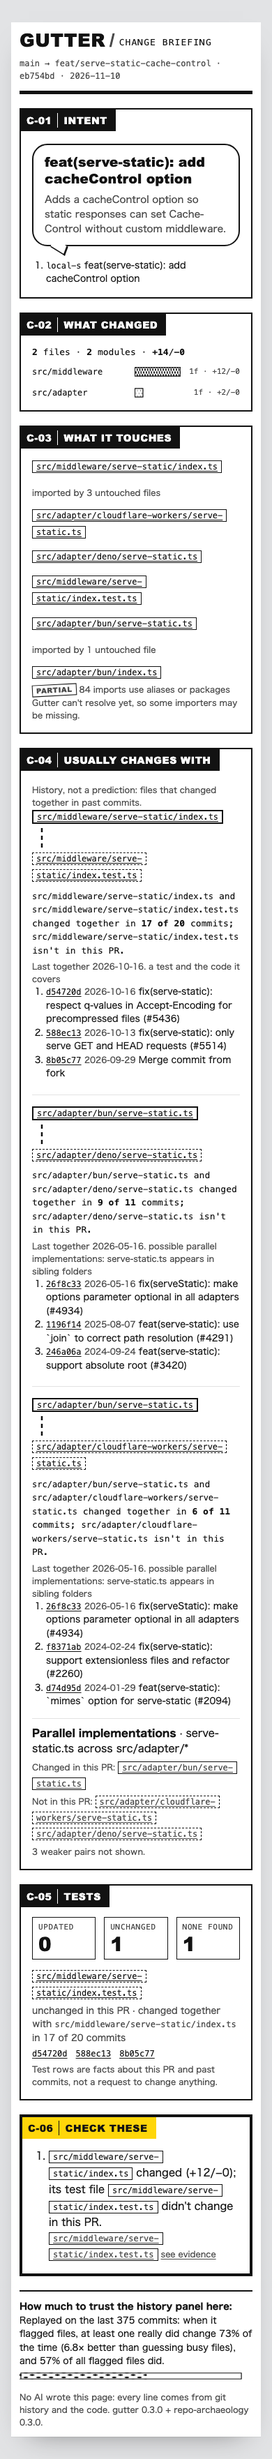
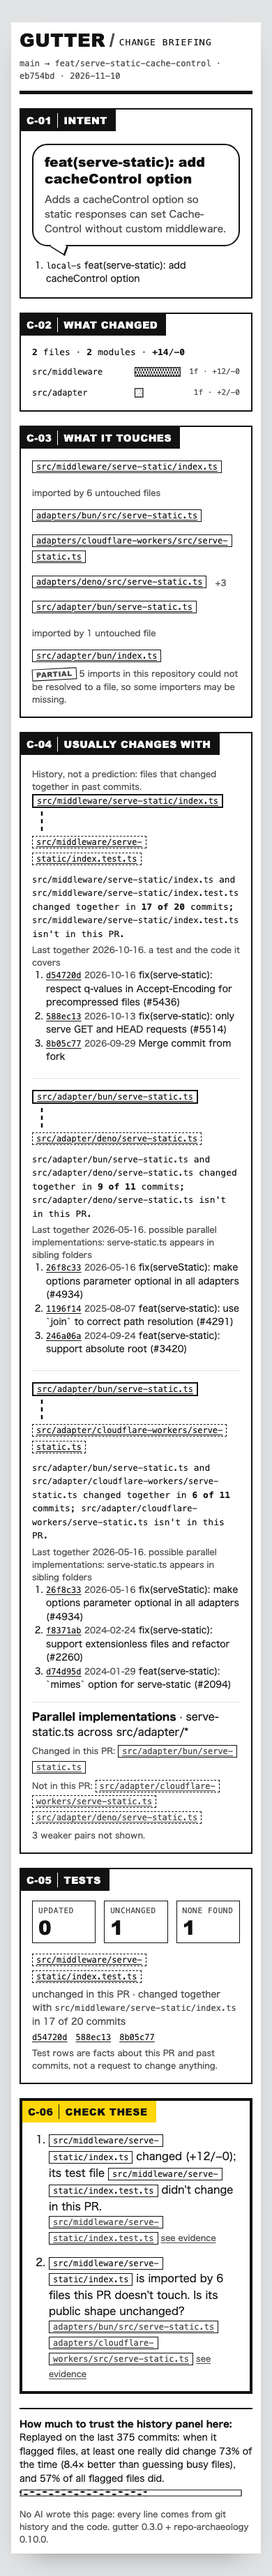
docs: DECISIONS #18, README/CHANGELOG/bench and example docs for the library session; regenerate the hono example

Changed region(s): [[0.0615, 0.0, 0.9231, 0.9986], [0.8923, 0.8113, 0.9231, 0.8738], [0.8615, 0.156, 0.8923, 0.1872]]

diff --git a/docs/example/gutter.html b/docs/example/gutter.html
@@ -172,10 +172,10 @@ a:focus-visible,.panel:focus-visible{outline:var(--f-stroke) solid var(--f-marke
 <section class="panel area-touches" data-cut="C-03" aria-labelledby="p3">
   <h2 id="p3" class="cap"><span class="num">C-03</span> What it touches</h2>
   <ul class="deps"><li id="deps:src/middleware/serve-static/index.ts"><a href="https://github.com/honojs/hono/blob/eb754bd5ef22c63f1634a4c374a86be086f85710/src/middleware/serve-static/index.ts"><code class="path">src/middleware/serve-static/index.ts</code></a>
-        <span class="small">imported by 3 untouched files</span>
-        <span class="importers"><a href="https://github.com/honojs/hono/blob/eb754bd5ef22c63f1634a4c374a86be086f85710/src/adapter/cloudflare-workers/serve-static.ts"><code class="path">src/adapter/cloudflare-workers/serve-static.ts</code></a> <a href="https://github.com/honojs/hono/blob/eb754bd5ef22c63f1634a4c374a86be086f85710/src/adapter/deno/serve-static.ts"><code class="path">src/adapter/deno/serve-static.ts</code></a> <a href="https://github.com/honojs/hono/blob/eb754bd5ef22c63f1634a4c374a86be086f85710/src/middleware/serve-static/index.test.ts"><code class="path">src/middleware/serve-static/index.test.ts</code></a></span></li><li id="deps:src/adapter/bun/serve-static.ts"><a href="https://github.com/honojs/hono/blob/eb754bd5ef22c63f1634a4c374a86be086f85710/src/adapter/bun/serve-static.ts"><code class="path">src/adapter/bun/serve-static.ts</code></a>
+        <span class="small">imported by 6 untouched files</span>
+        <span class="importers"><a href="https://github.com/honojs/hono/blob/eb754bd5ef22c63f1634a4c374a86be086f85710/adapters/bun/src/serve-static.ts"><code class="path">adapters/bun/src/serve-static.ts</code></a> <a href="https://github.com/honojs/hono/blob/eb754bd5ef22c63f1634a4c374a86be086f85710/adapters/cloudflare-workers/src/serve-static.ts"><code class="path">adapters/cloudflare-workers/src/serve-static.ts</code></a> <a href="https://github.com/honojs/hono/blob/eb754bd5ef22c63f1634a4c374a86be086f85710/adapters/deno/src/serve-static.ts"><code class="path">adapters/deno/src/serve-static.ts</code></a> <span class="small">+3</span></span></li><li id="deps:src/adapter/bun/serve-static.ts"><a href="https://github.com/honojs/hono/blob/eb754bd5ef22c63f1634a4c374a86be086f85710/src/adapter/bun/serve-static.ts"><code class="path">src/adapter/bun/serve-static.ts</code></a>
         <span class="small">imported by 1 untouched file</span>
-        <span class="importers"><a href="https://github.com/honojs/hono/blob/eb754bd5ef22c63f1634a4c374a86be086f85710/src/adapter/bun/index.ts"><code class="path">src/adapter/bun/index.ts</code></a></span></li></ul><p class="small"><span class="stamp">partial</span> 84 imports use aliases or packages Gutter can&#39;t resolve yet, so some importers may be missing.</p>
+        <span class="importers"><a href="https://github.com/honojs/hono/blob/eb754bd5ef22c63f1634a4c374a86be086f85710/src/adapter/bun/index.ts"><code class="path">src/adapter/bun/index.ts</code></a></span></li></ul><p class="small"><span class="stamp">partial</span> 5 imports in this repository could not be resolved to a file, so some importers may be missing.</p>
 </section>
 <section class="panel area-history" data-cut="C-04" aria-labelledby="p4">
   <h2 id="p4" class="cap"><span class="num">C-04</span> Usually changes with</h2>
@@ -222,12 +222,12 @@ a:focus-visible,.panel:focus-visible{outline:var(--f-stroke) solid var(--f-marke
 </section>
 <section class="panel area-checks hero" data-cut="C-06" aria-labelledby="p6">
   <h2 id="p6" class="cap marker"><span class="num">C-06</span> Check these</h2>
-  <ol class="checks"><li><p><code class="path">src/middleware/serve-static/index.ts</code> changed (+12/−0); its test file <code class="path">src/middleware/serve-static/index.test.ts</code> didn&#39;t change in this PR.</p><p class="small"><a href="https://github.com/honojs/hono/blob/eb754bd5ef22c63f1634a4c374a86be086f85710/src/middleware/serve-static/index.test.ts"><code class="path">src/middleware/serve-static/index.test.ts</code></a> <a class="jump" href="#tests:src/middleware/serve-static/index.ts">see evidence</a></p></li></ol>
+  <ol class="checks"><li><p><code class="path">src/middleware/serve-static/index.ts</code> changed (+12/−0); its test file <code class="path">src/middleware/serve-static/index.test.ts</code> didn&#39;t change in this PR.</p><p class="small"><a href="https://github.com/honojs/hono/blob/eb754bd5ef22c63f1634a4c374a86be086f85710/src/middleware/serve-static/index.test.ts"><code class="path">src/middleware/serve-static/index.test.ts</code></a> <a class="jump" href="#tests:src/middleware/serve-static/index.ts">see evidence</a></p></li><li><p><code class="path">src/middleware/serve-static/index.ts</code> is imported by 6 files this PR doesn&#39;t touch. Is its public shape unchanged?</p><p class="small"><a href="https://github.com/honojs/hono/blob/eb754bd5ef22c63f1634a4c374a86be086f85710/adapters/bun/src/serve-static.ts"><code class="path">adapters/bun/src/serve-static.ts</code></a> <a href="https://github.com/honojs/hono/blob/eb754bd5ef22c63f1634a4c374a86be086f85710/adapters/cloudflare-workers/src/serve-static.ts"><code class="path">adapters/cloudflare-workers/src/serve-static.ts</code></a> <a class="jump" href="#deps:src/middleware/serve-static/index.ts">see evidence</a></p></li></ol>
 </section>
   </div>
   <footer class="colophon">
-    <div class="cal"><p><b>How much to trust the history panel here:</b> Replayed on the last 375 commits: when it flagged files, at least one really did change 73% of the time (6.8× better than guessing busy files), and 57% of all flagged files did.</p><svg class="gauge" viewBox="0 0 100 8" preserveAspectRatio="none" role="img" aria-label="Measured precision 57%"><rect x="0" y="0" width="57" height="8" fill="url(#tone-2)"/><rect x="0.6" y="0.6" width="98.8" height="6.8" class="bar-ink"/></svg></div>
-    <p class="small">No AI wrote this page: every line comes from git history and the code. gutter 0.3.0 + repo-archaeology 0.3.0.</p>
+    <div class="cal"><p><b>How much to trust the history panel here:</b> Replayed on the last 375 commits: when it flagged files, at least one really did change 73% of the time (8.4× better than guessing busy files), and 57% of all flagged files did.</p><svg class="gauge" viewBox="0 0 100 8" preserveAspectRatio="none" role="img" aria-label="Measured precision 57%"><rect x="0" y="0" width="57" height="8" fill="url(#tone-2)"/><rect x="0.6" y="0.6" width="98.8" height="6.8" class="bar-ink"/></svg></div>
+    <p class="small">No AI wrote this page: every line comes from git history and the code. gutter 0.3.0 + repo-archaeology 0.10.0.</p>
   </footer>
 </article>
 </main>

diff --git a/README.md b/README.md
@@ -34,7 +34,7 @@ jobs:
 
 ### See what the diff doesn't tell you
 
-Gutter combines `git diff` structure, static import analysis, test-file conventions, and [Repo Archaeology](https://github.com/lbrodie11/repo-archaeology) co-change history into a compact, evidence-backed briefing for human reviewers.
+Gutter combines `git diff` structure, test-file conventions, and [Repo Archaeology](https://github.com/lbrodie11/repo-archaeology)'s import graph and co-change history into a compact, evidence-backed briefing for human reviewers.
 
 **Gutter doesn't replace your judgment.** It never writes AI verdicts, suggests code rewrites, guesses at omissions, or blocks a merge. Instead, it gives you verifiable repository evidence — with clickable commit receipts and a per-repo backtest of how reliable the history is — so you can decide where to spend your attention.
 
@@ -52,7 +52,7 @@ Gutter combines `git diff` structure, static import analysis, test-file conventi
 
 ## Example: a Hono change, briefed
 
-> **About this example:** Below is an illustrative branch on [honojs/hono](https://github.com/honojs/hono) (based on commit [`eb754bd`](https://github.com/honojs/hono/commit/eb754bd5ef22c63f1634a4c374a86be086f85710)) analyzed against Hono's real commit history (`1,868` commits). The proposed `cacheControl` edit is a local simulation, not an existing Hono pull request; all co-change counts and supporting commit receipts are genuine.
+> **About this example:** Below is an illustrative branch on [honojs/hono](https://github.com/honojs/hono) (based on commit [`eb754bd`](https://github.com/honojs/hono/commit/eb754bd5ef22c63f1634a4c374a86be086f85710)) analyzed against Hono's real commit history (`1,861` commits, repo-archaeology 0.10.0). The proposed `cacheControl` edit is a local simulation, not an existing Hono pull request; all co-change counts and supporting commit receipts are genuine.
 >
 > **Reproduce locally:**
 > ```bash
@@ -71,6 +71,7 @@ Suppose a pull request adds a `cacheControl` option to Hono's shared static-file
 | Where | What Gutter says | Evidence |
 |---|---|---|
 | **Check these** | `src/middleware/serve-static/index.ts` changed (+12/−0); its test file `src/middleware/serve-static/index.test.ts` didn't change in this PR. | `git diff`, test-file naming |
+| **Check these** | `src/middleware/serve-static/index.ts` is imported by 6 files this PR doesn't touch. Is its public shape unchanged? | Repo Archaeology's import graph: 3 relative importers in `src/`, plus the 3 `adapters/*/src/serve-static.ts` files that import it through the package's `exports` |
 | **Tests** | [`src/middleware/serve-static/index.test.ts`](https://github.com/honojs/hono/blob/eb754bd5ef22c63f1634a4c374a86be086f85710/src/middleware/serve-static/index.test.ts) — unchanged in this PR · changed together with `src/middleware/serve-static/index.ts` in **17 of 20** commits | [`d54720d`](https://github.com/honojs/hono/commit/d54720da80134a180f5fe2dd98a7676cfc8f08b4) · [`588ec13`](https://github.com/honojs/hono/commit/588ec13fa68ea44fed1b5e1b503341db2bf09d70) · [`8b05c77`](https://github.com/honojs/hono/commit/8b05c774ef1555c70f5ba5e2991b7e77cc3635cc) |
 | **Usually changes with** | `src/adapter/bun/serve-static.ts` and [`src/adapter/deno/serve-static.ts`](https://github.com/honojs/hono/blob/eb754bd5ef22c63f1634a4c374a86be086f85710/src/adapter/deno/serve-static.ts) changed together in **9 of 11** commits; the Deno adapter isn't in this PR | [`26f8c33`](https://github.com/honojs/hono/commit/26f8c33f23e6151873d165107f2dbcadf1204d15) · [`1196f14`](https://github.com/honojs/hono/commit/1196f14b94e589e2ac44fa7f1c8785d70c1cf83e) · [`246a06a`](https://github.com/honojs/hono/commit/246a06aa1d35aa206dcf11186b3aa90badb2de72) |
 | **Usually changes with** | This PR changes 1 of 3 parallel implementations (`serve-static.ts` across `src/adapter/*`); Cloudflare Workers and Deno aren't in this PR | [`cloudflare-workers/serve-static.ts`](https://github.com/honojs/hono/blob/eb754bd5ef22c63f1634a4c374a86be086f85710/src/adapter/cloudflare-workers/serve-static.ts) · [`deno/serve-static.ts`](https://github.com/honojs/hono/blob/eb754bd5ef22c63f1634a4c374a86be086f85710/src/adapter/deno/serve-static.ts) |
@@ -79,7 +80,7 @@ None of these is a verdict. The test row is a historical fact; whether this chan
 
 ### 2 · What lands in the pull request (sticky Markdown comment)
 
-GitHub pull request comments cannot render custom CSS, so Gutter posts **one compact, updating Markdown comment** (and stays completely silent on small, unremarkable PRs in `auto` mode). Full source: [`docs/example/brief.md`](docs/example/brief.md) (generated with gutter 0.3.0 + repo-archaeology 0.3.0; see [`docs/example/README.md`](docs/example/README.md) to reproduce it).
+GitHub pull request comments cannot render custom CSS, so Gutter posts **one compact, updating Markdown comment** (and stays completely silent on small, unremarkable PRs in `auto` mode). Full source: [`docs/example/brief.md`](docs/example/brief.md) (generated with gutter 0.3.0 + repo-archaeology 0.10.0 as a library; see [`docs/example/README.md`](docs/example/README.md) to reproduce it).
 
 > ### Gutter · change briefing
 >
@@ -88,10 +89,11 @@ GitHub pull request comments cannot render custom CSS, so Gutter posts **one com
 > **Worth a look**
 >
 > 1. `src/middleware/serve-static/index.ts` changed (+12/−0); its test file `src/middleware/serve-static/index.test.ts` didn't change in this PR.<br><sub>receipts: [`src/middleware/serve-static/index.test.ts`](https://github.com/honojs/hono/blob/eb754bd5ef22c63f1634a4c374a86be086f85710/src/middleware/serve-static/index.test.ts)</sub>
+> 2. `src/middleware/serve-static/index.ts` is imported by 6 files this PR doesn't touch. Is its public shape unchanged?<br><sub>receipts: [`adapters/bun/src/serve-static.ts`](https://github.com/honojs/hono/blob/eb754bd5ef22c63f1634a4c374a86be086f85710/adapters/bun/src/serve-static.ts) · [`adapters/cloudflare-workers/src/serve-static.ts`](https://github.com/honojs/hono/blob/eb754bd5ef22c63f1634a4c374a86be086f85710/adapters/cloudflare-workers/src/serve-static.ts)</sub>
 >
 > *(Plus collapsed `<details>` sections: **Usually changes with** (history, not a prediction), **What it touches**, **Tests**, and **What changed**.)*
 >
-> <sub>Replayed on the last 375 commits: when it flagged files, at least one really did change 73% of the time (6.8× better than guessing busy files), and 57% of all flagged files did. · No AI wrote this: every line comes from git history and the code · gutter 0.3.0 + repo-archaeology 0.3.0</sub>
+> <sub>Replayed on the last 375 commits: when it flagged files, at least one really did change 73% of the time (8.4× better than guessing busy files), and 57% of all flagged files did. · No AI wrote this: every line comes from git history and the code · gutter 0.3.0 + repo-archaeology 0.10.0</sub>
 
 ### 3 · The full six-panel page (`gutter.html` artifact)
 
@@ -103,7 +105,7 @@ Alongside the Markdown comment, Gutter writes a self-contained, offline HTML pag
 |---|---|---|
 | **C-01 · Intent** | What is this change trying to do? | PR title/body, commit subjects |
 | **C-02 · What changed** | How big is it, and where? | `git diff` grouped into modules, churn as screentone |
-| **C-03 · What it touches** | Who depends on what changed? | Relative import scan for TS/JS; unresolved aliases or packages mark `dependents.coverage` as **`partial`** (with sample receipts), and other languages are reported as **`unchecked`** — never silently as "no dependents" |
+| **C-03 · What it touches** | Who depends on what changed? | [Repo Archaeology](https://github.com/lbrodie11/repo-archaeology)'s import graph (relative imports, tsconfig `paths`, workspaces, package `exports`/`imports`, Go packages, Python modules); any unresolved import in the repository marks `dependents.coverage` as **`partial`** (with sample receipts), and languages the resolver doesn't cover are reported as **`unchecked`** — never silently as "no dependents". Without the library, a relative-import scanner for TS/JS is the fallback |
 | **C-04 · Usually changes with** | Which files historically change with these files? (History, not a prediction; never the page's hero) | [Repo Archaeology](https://github.com/lbrodie11/repo-archaeology) directional co-change history with commit receipts |
 | **C-05 · Tests** | Which related test files changed, which didn't, and how often did they change together before? | Co-located, `__tests__/`, and mirrored `test/` / `tests/` naming conventions, plus co-change pairs between a file and its test |
 | **C-06 · Check these** | Where should I focus first? | Up to 4 deterministic facts (broken imports, unchanged test files, wide import surfaces), each required to cite evidence IDs from panels C-03 to C-05. It is the hero panel when it has items; otherwise C-03 is |
@@ -119,7 +121,7 @@ Historical co-change is context, not proof of anything. Two files that usually c
 To show how reliable the history is on *your specific repository*, Gutter runs Repo Archaeology's walk-forward backtest on recent history and prints the result under the page:
 
 - **Evaluated window (`375` held-out test commits on Hono):** Each held-out commit is replayed using only history prior to that commit.
-- **Query hit rate (`73%` across `516` fired file-level queries, `6.8×` lift over guessing busy files):** Among the `516` file-level queries where historical suggestions were returned, `73%` had at least one suggestion that genuinely changed in the same commit.
+- **Query hit rate (`73%` across `514` fired file-level queries, `8.4×` lift over guessing busy files):** Among the `514` file-level queries where historical suggestions were returned, `73%` had at least one suggestion that genuinely changed in the same commit.
 - **Per-suggestion precision (`57%`):** Across all individual file suggestions emitted across those queries, `57%` matched files that changed in the same commit.
 
 Pairs backed mostly by bot commits (`dependabot`, `renovate`, etc.) are marked as such. Co-change never becomes a checklist item and never makes a page louder. (Under the `legacyPredictions` research switch, measured precision below `25%` still suppresses the old companion questions, and weak or bot-backed pairs never become questions, exactly as before GU-29.)
@@ -131,7 +133,7 @@ Pairs backed mostly by bot commits (`dependabot`, `renovate`, etc.) are marked a
 Before trusting historical co-change or static questions on a repository, `gutter bench` replays the newest $N$ merged pull requests strictly **as of each PR** using the same question-generation code (`assembleBrief`) as production Gutter, scores what happened next on the first-parent branch, compares against matched baselines, and writes [`bench.json`](schema/bench.schema.json), `bench.md`, and a FRAME/12 `bench.html` page from one schema-validated results model.
 
 ```bash
-# Replay the newest 200 eligible PRs on the current branch (offline; requires local repo-archaeology >= 0.4.0)
+# Replay the newest 200 eligible PRs on the current branch (offline; requires the repo-archaeology library >= 0.4.0, 0.10.0 recommended)
 node dist/cli.js bench --prs 200 --window-days 7 --out .gutter/bench
 ```
 
@@ -152,8 +154,8 @@ node dist/cli.js bench --prs 200 --window-days 7 --out .gutter/bench
    - `popular-near`: most frequently changed files sharing a top-level directory or module with a file touched by the PR.
    - `recent`: most frequently changed files in the 30 days prior to `base`.
    Headline lift is reported against the **strongest** baseline on the repository, with 95% Wilson intervals and a seeded 1,000-resample PR-clustered bootstrap.
-6. **Why same-commit backtest lift (`6.8×`) and 7-day post-merge follow-up proxy (`×0.36` vs. `recent`) differ:**
-   - **Same-commit backtest (`repo-archaeology backtest`):** Holds out files *within a single commit* and asks whether historical co-change predicts the other files modified in that same commit (`73%` hit rate, `6.8×` lift over popularity on Hono). This measures whether the files genuinely form a coupled pair when a change is complete.
+6. **Why same-commit backtest lift (`8.4×`) and 7-day post-merge follow-up proxy (`×0.36` vs. `recent`) differ:**
+   - **Same-commit backtest (`repo-archaeology backtest`):** Holds out files *within a single commit* and asks whether historical co-change predicts the other files modified in that same commit (`73%` hit rate, `8.4×` lift over popularity on Hono with repo-archaeology 0.10.0). This measures whether the files genuinely form a coupled pair when a change is complete.
    - **Post-merge follow-up proxy (`gutter bench`):** Replays merged PRs where a companion or test was left *untouched* in the PR and observes whether that file is edited in a *separate* commit within the next 7 days (`0.23` follow-up proxy on Hono). Over a 7-day post-merge window on an active repository, central/recently-busy files (`recent`, `popular`) naturally accumulate unrelated feature edits at a high rate (`0.65` on Hono), whereas specific companion/test targets change later only when a follow-up test or fix commit lands.
    - Because 7-day post-merge edits conflate genuine omissions with background churn on busy files, `gutter bench` always marks Gate A as `UNVERIFIED` and leaves usefulness to human review (GU-04 labels, then M1).
 
@@ -177,10 +179,10 @@ Full preregistered methodology and scoring rules: [`docs/benchmark/METHOD.md`](d
 | Input | Default | Behavior |
 |---|---|---|
 | `post` | `auto` | `auto` skips quiet PRs (but updates an existing sticky comment), `always`, or `never` (job summary + artifact only) |
-| `history` | `true` | Run Repo Archaeology co-change analysis (`npx --yes repo-archaeology@^0.4.0`) |
+| `history` | `true` | Run Repo Archaeology: co-change history and the import graph in one library session. The Action installs it into an isolated, cached prefix under `RUNNER_TEMP` (never into your repository) and falls back to `npx` with a notice if that install fails. `false` runs offline with a relative-import scanner |
 | `calibrate` | `true` | Backtest how reliable co-change history is on this repo, shown under the page (~0.3s on 1,900 commits) |
 | `max-forgotten` | `3` | Maximum "usually changes with" pairs to display (`0` hides them; the input keeps its v1 name) |
-| `archaeology-version` | `^0.4.0` | npm version range of `repo-archaeology` to execute |
+| `archaeology-version` | `^0.10.0` | npm version range of `repo-archaeology` to install (also the cache key) |
 | `upload-page` | `true` | Upload `gutter.html` and `gutter.json` as the `gutter-brief` workflow artifact |
 
 Action outputs: `status` (`analyzed` / `skipped` / `error`), `salience` (`quiet` / `brief` / `full`), `question-count` (checklist items), `forgotten-count` ("usually changes with" pairs shown; the output keeps its v1 name), `json-path`, `html-path`.
@@ -193,7 +195,7 @@ npx gutter-brief brief --base main --print md        # also print the Markdown c
 npx gutter-brief render .gutter/gutter.json --format html > page.html
 ```
 
-Useful flags: `--title` / `--intent` (PR text), `--pr <n>`, `--ra-bin <path>` (use a local Repo Archaeology build), `--ra-diff` / `--ra-backtest` (use saved JSON), `--no-history`, `--no-calibration`. Run `gutter --help` for the full list.
+Useful flags: `--title` / `--intent` (PR text), `--pr <n>`, `--ra-lib <path>` (a local Repo Archaeology library), `--ra-bin <path>` (a Repo Archaeology binary, used when no library loads), `--ra-diff` / `--ra-backtest` (use saved JSON), `--no-history`, `--no-calibration`. Run `gutter --help` for the full list.
 
 **Optional `.gutter.json` repository configuration:** Repositories may place a `.gutter.json` file at the repository root to customize thresholds (`maxForgotten`, `maxChecklist`, `minChurnForTestQuestion`, `wideSurfaceImporters`, `salienceFullMinSignals`, `salienceBreadthFull`, `noHistory`, `noCalibration`). Precedence is `CLI flags / Action inputs > .gutter.json > defaults`. In the GitHub Action, `.gutter.json` is read from the `base` commit tree so an untrusted pull request cannot silence Gutter on itself.
 
@@ -236,16 +238,16 @@ In comics, the *gutter* is the space between panels where the reader connects tw
 ## Architecture, Privacy & Dependencies
 
 ```
-git diff ─────────────┐
-git ls-files + imports ┤
-test-file conventions ─┼─▶ evidence engine ─▶ gutter.json ─┬─▶ compact Markdown (PR comment)
-repo-archaeology diff ─┤                      (contract)    └─▶ comic page (FRAME/12 HTML artifact)
-repo-archaeology       ┘
-  backtest
+git diff ───────────────────┐
+test-file conventions ──────┤
+repo-archaeology session ───┼─▶ evidence engine ─▶ gutter.json ─┬─▶ compact Markdown (PR comment)
+  (one history load:        │                      (contract)    └─▶ comic page (FRAME/12 HTML artifact)
+   diff · backtest ·        │
+   importGraph)             ┘
 ```
 
 - **Privacy & data handling:** Analysis runs entirely on your local machine or your GitHub Actions runner. Gutter never transmits source code, diffs, or git history to any Gutter-operated service. When run in GitHub Actions, the Markdown comment (`post: auto|always`) and optional `gutter-brief` artifact (`upload-page: true`) are stored by GitHub in your repository's pull request and workflow run.
-- **Dependencies:** `gutter-brief` has **zero direct runtime npm dependencies** (`package.json` `dependencies` is empty). When co-change history is enabled (the default), Gutter invokes [`repo-archaeology`](https://www.npmjs.com/package/repo-archaeology) via `npx --yes repo-archaeology@^0.4.0` (or a pre-installed binary via `--ra-bin` / `GUTTER_RA_BIN`, or the `repo-archaeology >= 0.4.0` library API during historical replay). Pass `--no-history` (or `history: 'false'` in the Action) for a completely offline static run.
+- **Dependencies:** `gutter-brief` has **zero direct runtime npm dependencies** (`package.json` `dependencies` is empty); [`repo-archaeology`](https://www.npmjs.com/package/repo-archaeology) is an optional peer (`>=0.4.0`). Gutter prefers it as a library: one `openRepository` session per brief loads history once and serves `diff`, `backtest` and the import graph (`--ra-lib` / `GUTTER_RA_LIB`, or the installed package). Without the library it falls back to a binary (`--ra-bin` / `GUTTER_RA_BIN`), then to `npx --yes repo-archaeology@^0.10.0` (noted on the page), then to "history unavailable", with a relative-import scanner for dependents. Pass `--no-history` (or `history: 'false'` in the Action) for a completely offline static run.
 - **Security:** Designed for `pull_request`, **never `pull_request_target`**. All PR-derived text is escaped per output format; links are built only from `http(s)` base URLs and hex SHAs; git is invoked strictly with argument vectors. See [SECURITY.md](SECURITY.md) for the full threat model.
 
 ## Development

diff --git a/docs/DECISIONS.md b/docs/DECISIONS.md
@@ -98,3 +98,16 @@ This is decision #1 ("we explain; others judge") applied to Gutter's own questio
 **Reopen rule.** A predictive rule returns to default output only if, on ≥ 3 corpus repositories, a preregistered rule beats the strongest baseline (lift > ×1.00, with the bootstrap interval's lower bound > ×1.00) on same-author or RA-signal follow-up, with ≥ 30 scored targets per repository.
 
 **Exit tests.** Gate A ("questions right ≥ 70%") no longer fits a product that asks no predictive questions. M0's exit test becomes Gate A′ in [`ROADMAP.md`](ROADMAP.md): quiet enough, facts true, no predictions, all checkable without human labels. Human usefulness is judged in M1. On hono, Gate A′ passes on what hono exercises (no `full` page; 10/10 `untested-change` and 43/43 test-history facts confirmed; no prediction wording on any of 200 pages), and `broken-import` is unexercised because no PR in the sample removed an imported file.
+
+## 18. Repo Archaeology is loaded as a library, one session per brief (`GU-05`)
+
+Repo Archaeology owns co-change statistics, commit-origin classification and import resolution (#2). Gutter now consumes all three from one in-process session instead of re-implementing parts of them.
+
+- **Order of preference.** `repo-archaeology` stays an optional peer dependency (`>=0.4.0`, the first release with `openRepository` and the import resolver; 0.10.0 is the dev pin and the Action's default). Gutter loads it through one loader (`loadRaLibrary` in `src/sources/archaeology-lib.ts`; a test fails if a second import site appears) in this order: (1) the library (`--ra-lib` / `GUTTER_RA_LIB`, or the installed package); (2) a binary (`--ra-bin` / `GUTTER_RA_BIN`, the previous behavior); (3) `npx`, now a last resort that adds a note to `forgotten.note` and prints a warning; (4) "history unavailable". `--no-history` skips Repo Archaeology entirely: an offline static run.
+- **One session.** `openRepository({ cwd, head, base })` loads history once; `diff`, `backtest` (unless calibration is off) and `importGraph` all read that session, which is closed in a `finally`. Because the session reads blobs at `head`, the old "history needs `head` checked out" skip no longer applies on the library path. The backtest is base-isolated, so the PR's own commits are no longer part of its held-out window (bench replay always worked this way).
+- **"What it touches" from the import graph.** Importers come from reverse edges of `importGraph({ files: <changed files at head> })`. Deleted and renamed-away paths don't exist at head, so their importers come from the session's repo-wide `unresolved` entries whose relative specifier points at them (`target-missing`); they become broken-import candidates as before. `coverage` is `partial` when any other import in the repository is unresolved, because such a file could be an importer Gutter can't see (the scoped list alone would miss it). That repo-wide pass reuses the session's index, about a millisecond on hono. `dependents.unresolved.byReason` counts Repo Archaeology's `reasonCode`s, `dependents.analyzers` lists `ra-import-graph` and the edge `via` kinds seen, and `unchecked` lists changed files in languages the graph doesn't cover. The relative-import scanner (GU-02) is the fallback.
+- **Statistics and origin.** A suggestion's `interval` replaces Gutter's own Wilson computation; evidence `origin` sets `CommitRef.automated` (`origin === 'bot'`) and is kept as `CommitRef.origin`; `originShare.bot` becomes `automationShare`, and `originShare` is kept. `src/stats/wilson.ts` and `src/evidence/automation.ts` remain only as fallbacks; the bot list is no longer maintained.
+- **Provenance.** `provenance.engines[]` records `mode` (`library` / `subprocess` / `npx`) and `features` (the optional fields detected: `interval`, `origin`, `originShare`, `trackRecord`, `followUps`, `owners`, `importGraph`), so bench results are traceable to how Repo Archaeology ran.
+- **The Action never installs into the user's repository.** It runs `npm install --no-save --ignore-scripts --prefix "$RUNNER_TEMP/gutter-ra" repo-archaeology@<archaeology-version>` from `RUNNER_TEMP` (so the PR checkout's `package.json` and `.npmrc` are never read), caches that prefix with `actions/cache` keyed on the spec, and passes it as `GUTTER_RA_LIB`. If the install fails, the brief falls back to `npx` with a notice. The default spec moves from `^0.4.0` to `^0.10.0`: in 0.x a caret range caps the minor version, so `^0.4.0` could never pick up `interval`, `origin` or track records.
+
+**Cost.** One library session does more than the old two subprocesses did (it also builds the import graph), so a brief is not always faster: on the hono example the library path took about 1.1 s and the subprocess path about 0.8 s. The gain is one history load, dependents through aliases, workspaces and `exports`, and honest coverage. On hono, the resolver adds `wide-surface` to 3 of 200 PRs and still finds no `broken-import` ([`STAGE0.md`](benchmark/STAGE0.md#after-gu-05--repo-archaeologys-session-and-import-resolver-2026-11-10)). Under `legacyPredictions`, 68 PR records differ from Stage 0b only in a companion interval's fourth decimal (Repo Archaeology rounds outward), and every rate, lift and full share is unchanged.

diff --git a/docs/example/brief.md b/docs/example/brief.md
@@ -6,6 +6,7 @@
 **Worth a look**
 
 1. `src/middleware/serve-static/index.ts` changed \(\+12/−0\); its test file `src/middleware/serve-static/index.test.ts` didn't change in this PR\.<br><sub>receipts: [`src/middleware/serve-static/index.test.ts`](https://github.com/honojs/hono/blob/eb754bd5ef22c63f1634a4c374a86be086f85710/src/middleware/serve-static/index.test.ts)</sub>
+2. `src/middleware/serve-static/index.ts` is imported by 6 files this PR doesn't touch\. Is its public shape unchanged?<br><sub>receipts: [`adapters/bun/src/serve-static.ts`](https://github.com/honojs/hono/blob/eb754bd5ef22c63f1634a4c374a86be086f85710/adapters/bun/src/serve-static.ts) · [`adapters/cloudflare-workers/src/serve-static.ts`](https://github.com/honojs/hono/blob/eb754bd5ef22c63f1634a4c374a86be086f85710/adapters/cloudflare-workers/src/serve-static.ts)</sub>
 
 <details><summary><b>Usually changes with</b> (history, not a prediction) · 3 pairs · 1 parallel group</summary>
 
@@ -20,12 +21,12 @@
 
 <details><summary><b>What it touches</b> · 2 changed files with importers outside this PR (partial)</summary>
 
-- [`src/middleware/serve-static/index.ts`](https://github.com/honojs/hono/blob/eb754bd5ef22c63f1634a4c374a86be086f85710/src/middleware/serve-static/index.ts) ← [`src/adapter/cloudflare-workers/serve-static.ts`](https://github.com/honojs/hono/blob/eb754bd5ef22c63f1634a4c374a86be086f85710/src/adapter/cloudflare-workers/serve-static.ts), [`src/adapter/deno/serve-static.ts`](https://github.com/honojs/hono/blob/eb754bd5ef22c63f1634a4c374a86be086f85710/src/adapter/deno/serve-static.ts), [`src/middleware/serve-static/index.test.ts`](https://github.com/honojs/hono/blob/eb754bd5ef22c63f1634a4c374a86be086f85710/src/middleware/serve-static/index.test.ts)
+- [`src/middleware/serve-static/index.ts`](https://github.com/honojs/hono/blob/eb754bd5ef22c63f1634a4c374a86be086f85710/src/middleware/serve-static/index.ts) ← [`adapters/bun/src/serve-static.ts`](https://github.com/honojs/hono/blob/eb754bd5ef22c63f1634a4c374a86be086f85710/adapters/bun/src/serve-static.ts), [`adapters/cloudflare-workers/src/serve-static.ts`](https://github.com/honojs/hono/blob/eb754bd5ef22c63f1634a4c374a86be086f85710/adapters/cloudflare-workers/src/serve-static.ts), [`adapters/deno/src/serve-static.ts`](https://github.com/honojs/hono/blob/eb754bd5ef22c63f1634a4c374a86be086f85710/adapters/deno/src/serve-static.ts), [`src/adapter/cloudflare-workers/serve-static.ts`](https://github.com/honojs/hono/blob/eb754bd5ef22c63f1634a4c374a86be086f85710/src/adapter/cloudflare-workers/serve-static.ts) +2 more
 - [`src/adapter/bun/serve-static.ts`](https://github.com/honojs/hono/blob/eb754bd5ef22c63f1634a4c374a86be086f85710/src/adapter/bun/serve-static.ts) ← [`src/adapter/bun/index.ts`](https://github.com/honojs/hono/blob/eb754bd5ef22c63f1634a4c374a86be086f85710/src/adapter/bun/index.ts)
 
 </details>
 
-<sub>84 imports use aliases or packages Gutter can't resolve yet, so some importers may be missing.</sub>
+<sub>5 imports in this repository could not be resolved to a file, so some importers may be missing.</sub>
 
 <details><summary><b>Tests</b> · 0 updated · 1 unchanged · 1 with no test found</summary>
 
@@ -44,4 +45,4 @@
 
 </details>
 
-<sub>Replayed on the last 375 commits: when it flagged files, at least one really did change 73% of the time \(6\.8× better than guessing busy files\), and 57% of all flagged files did\. · No AI wrote this: every line comes from git history and the code · gutter 0.3.0 + repo-archaeology 0.3.0</sub>
+<sub>Replayed on the last 375 commits: when it flagged files, at least one really did change 73% of the time \(8\.4× better than guessing busy files\), and 57% of all flagged files did\. · No AI wrote this: every line comes from git history and the code · gutter 0.3.0 + repo-archaeology 0.10.0</sub>

diff --git a/CHANGELOG.md b/CHANGELOG.md
@@ -2,6 +2,16 @@
 
 ## Unreleased
 
+- **`GU-05` Repo Archaeology as a library, one session per brief ([DECISIONS #18](docs/DECISIONS.md#18-repo-archaeology-is-loaded-as-a-library-one-session-per-brief-gu-05)).**
+  - The CLI and the Action (`buildBriefAsync`) load `repo-archaeology` as a library first and run `diff`, `backtest` and `importGraph` in one `openRepository` session (one history load, closed in a `finally`). Fallbacks, in order: `--ra-bin` / `GUTTER_RA_BIN` subprocess, `npx` (now noted in `forgotten.note` and as a warning), then "history unavailable". New `gutter brief --ra-lib <path>` / `GUTTER_RA_LIB`. On the library path, history no longer needs `head` checked out, and the backtest is base-isolated (the PR's own commits are no longer in its window).
+  - "What it touches" comes from Repo Archaeology's import graph: relative imports, tsconfig `paths`, workspaces, package `exports`/`imports`, Go and Python. Importers of deleted or renamed-away files come from `target-missing` entries and stay broken-import candidates. `coverage` is `partial` when any import in the repository is unresolved. New optional `dependents.unresolved.byReason`; `dependents.analyzers` lists `ra-import-graph` and the edge `via` kinds; `unchecked` follows `importGraph.languages`. The relative-import scanner is the fallback. Rendered "partial" text no longer blames aliases when the import graph produced the layer.
+  - Co-change items use Repo Archaeology's `interval` and `originShare`, and evidence uses its `origin` (new optional `CommitRef.origin` and `ForgottenItem.originShare`); Gutter's Wilson computation and bot-name list are fallbacks only.
+  - `provenance.engines[]` gains optional `mode` (`library` / `subprocess` / `npx`) and `features`.
+  - `gutter bench` replay builds dependents from the import graph at each PR's head, in the same session.
+  - Action: installs `repo-archaeology@<archaeology-version>` into an isolated, cached prefix under `RUNNER_TEMP` (never into your repository; no install scripts; the PR's `.npmrc` is never read) and falls back to `npx` with a notice. Default `archaeology-version` (and the npx spec) is now `^0.10.0`, because `^0.4.0` caps at 0.4.x.
+  - hono rerun (`docs/benchmark/data/honojs__hono/gu05/`): full share still 0/200; `wide-surface` on 59 PRs (was 56); `broken-import` still 0; Gate A′ unchanged (PASS, broken-import unexercised). Under `legacyPredictions` every rate, lift and full share matches Stage 0b; 68 records differ only in an interval's fourth decimal and 3 gained a `wide-surface` item.
+  - The hono example is regenerated with the library: the same co-change pairs, plus a `wide-surface` item (the middleware is imported by 6 files outside the PR, 3 of them through `exports`).
+
 ## 0.3.0 · 2026-11-10
 
 - **`GU-29` Explain, don't predict ([DECISIONS #17](docs/DECISIONS.md#17-explain-dont-predict-gu-29)).** Gutter's default output no longer predicts omissions. The checklist holds only facts (`broken-import`, `untested-change`, `wide-surface`); co-change history can neither add nor suppress an item. Decided by the agent on the maintainer's explicit delegation, after Stage 0 (STOP) and Stage 0b (INSUFFICIENT) on hono.

diff --git a/docs/example/README.md b/docs/example/README.md
@@ -1,6 +1,8 @@
 # Reproducing the Hono Example (`docs/example/*` & `docs/images/*`)
 
-The files in `docs/example/` (`gutter.json`, `brief.md`, `gutter.html`) and screenshots in `docs/images/` are generated from a deterministic local simulation against [`honojs/hono`](https://github.com/honojs/hono) at pinned commit `eb754bd5ef22c63f1634a4c374a86be086f85710` using `repo-archaeology@0.3.0`.
+The files in `docs/example/` (`gutter.json`, `brief.md`, `gutter.html`) and screenshots in `docs/images/` are generated from a deterministic local simulation against [`honojs/hono`](https://github.com/honojs/hono) at pinned commit `eb754bd5ef22c63f1634a4c374a86be086f85710` using `repo-archaeology` 0.10.0 loaded as a library (Gutter's pinned dev dependency; before GU-05 the example used `repo-archaeology@0.3.0` through `npx`).
+
+Since GU-05, "What it touches" comes from Repo Archaeology's import graph, which also finds the three `adapters/*/src/serve-static.ts` files that import the middleware through the package's `exports`, so the page adds a `wide-surface` item.
 
 Since GU-29 the illustrative edit adds 12 lines to the middleware (previously 8), so it passes the `minChurnForTestQuestion` gate (10 changed lines) and the page is `brief`: the unchanged-test fact, the Tests row with its history and the "Usually changes with" context are all visible. The co-change history is the same as before (same commit, same analyzer).
 
@@ -14,12 +16,12 @@ node dist/cli.js render docs/example/gutter.json --format html > docs/example/gu
 
 ## 2. Reproduce the full analysis from scratch against `honojs/hono`
 
-Requires `git`, Node.js ≥ 22, and `repo-archaeology@0.3.0`:
+Requires `git`, Node.js ≥ 22, and `npm ci` in Gutter (which installs `repo-archaeology` 0.10.0):
 
 ```bash
 # Run the reproduction script (fetches honojs/hono at eb754bd5ef22c63f1634a4c374a86be086f85710,
 # creates branch feat/serve-static-cache-control with the 2-file cacheControl edit,
-# runs `gutter brief` with repo-archaeology@0.3.0, and rewrites change.headSha to
+# runs `gutter brief` with the repo-archaeology library, and rewrites change.headSha to
 # eb754bd5ef22c63f1634a4c374a86be086f85710 and change.commits[0].sha to "local-sim"
 # before re-rendering brief.md and gutter.html so GitHub blob links resolve upstream):
 bash docs/example/reproduce.sh /tmp/hono-repro
@@ -42,7 +44,7 @@ node /path/to/gutter/dist/cli.js brief \
   --title "feat(serve-static): add cacheControl option" \
   --intent "Adds a cacheControl option so static responses can set Cache-Control without custom middleware." \
   --repo-url "https://github.com/honojs/hono" \
-  --ra-version "0.3.0" \
+  --ra-lib /path/to/gutter/node_modules/repo-archaeology \
   --out /tmp/hono-repro/.gutter
 ```
 

diff --git a/bench/README.md b/bench/README.md
@@ -93,6 +93,10 @@ GU-29 stops Gutter's default output from predicting omissions ([DECISIONS #17](.
 
 The exact commands are in STAGE0.md, "After GU-29".
 
+## GU-05 · Repo Archaeology's session and import resolver
+
+`gutter bench` replay now builds "What it touches" from Repo Archaeology's import graph at each PR's head, in the same session as `diff` and `backtest`, so the bench measures what users get. Results: STAGE0.md "After GU-05"; data: [`docs/benchmark/data/honojs__hono/gu05/`](../docs/benchmark/data/honojs__hono/gu05/); report: [`gu05-report.mjs`](gu05-report.mjs), which also classifies every PR record where `--legacy-predictions` differs from Stage 0b.
+
 ## Stage 1 · corpus (not built)
 
 `corpus.json`, `run-corpus.mjs`, `aggregate.mjs`, the per-question labeling mode, and the Gate A report are built only if Stage 0's preregistered rule says continue and a human confirms. As of 2026-11-10 the rule outcome is **STOP**, and GU-29 took option 1 (DECISIONS #17). The corpus is still needed for Gate A′ and for DECISIONS #17's reopen rule (a predictive rule must beat the strongest baseline on ≥ 3 corpus repos).
